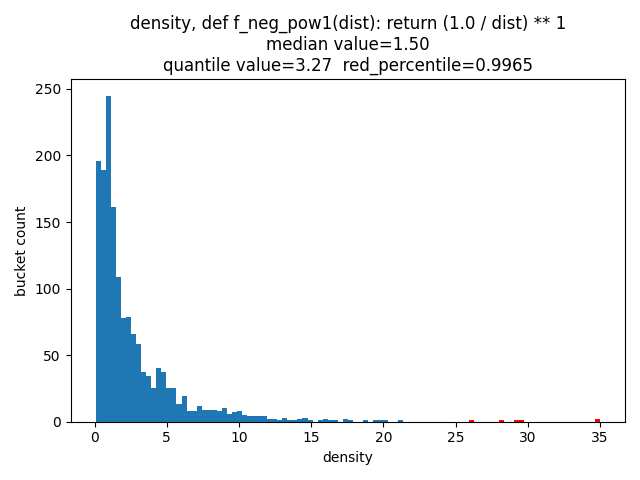
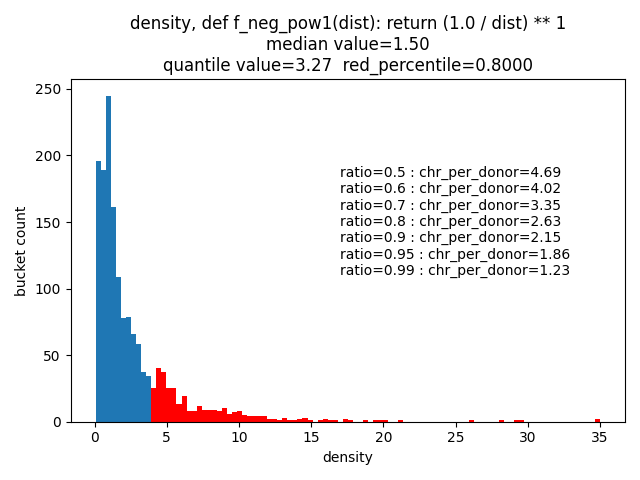
multiple map chromo chrs per chromo donor

diff --git a/DonorAnalyzer.py b/DonorAnalyzer.py
@@ -184,16 +184,23 @@ def hist_patients(f_id, ratio, dens_plot=True, cluster_plot=True, periphery_plot
 
         denss = list(map(lambda x: x[0], denss_info))
         top_ratio_infos_sorted_by_dens = sorted(denss_info, key=lambda p: p[0])
+        infoids_sorted_by_dens = list(map(lambda p: p[1], top_ratio_infos_sorted_by_dens))
         cnt = len(denss)
 
         for i in range(int(cnt * ratio), cnt):
             cur_id = top_ratio_infos_sorted_by_dens[i][1]
             infoids.append(cur_id)
 
+        ratios = [0.5, 0.6, 0.7, 0.8, 0.9, 0.95, 0.99]
+        ratios_map = chrs_per_donor_summary(infoids_sorted_by_dens, ratios)
+        text_ratios_map = ''
+        for k, v in ratios_map.items():
+            text_ratios_map += f'ratio={k} : ' + 'chr_per_donor=%0.2f\n' % v
+
         buckets_cnt = 100
         dens_path = f'distribution/densities/{f_id}.png'
         if dens_plot:
-            plot_distribution(denss, dens_path, code, 'density', 'density', ratio, buckets_cnt)
+            plot_distribution(denss, dens_path, code, 'density', 'density', ratio, buckets_cnt, text=text_ratios_map)
 
         cluster_path = f'distribution/clusters/{f_id}.png'
         if cluster_plot:
@@ -213,6 +220,18 @@ def hist_patients(f_id, ratio, dens_plot=True, cluster_plot=True, periphery_plot
     print(f'plots took {t2 - t1} sec')
     return infoids
 
+
+def chrs_per_donor_summary(infoids_sorted_by_dens, ratios):
+    cnt = len(infoids_sorted_by_dens)
+    ratios_map = {}
+    for _ratio in ratios:
+        _ratio_infoids = []
+        for i in range(int(cnt * _ratio), cnt):
+            cur_id = infoids_sorted_by_dens[i]
+            _ratio_infoids.append(cur_id)
+        chr_per_donor = relation_chromo_chrs_per_donor(_ratio_infoids)
+        ratios_map[_ratio] = chr_per_donor
+    return ratios_map
 
 def relation_chromo_chrs_per_donor(chromo_infoids):
     donor_chromo_chrs_cnt = {}
@@ -329,8 +348,9 @@ def all_hists(ratio):
     for i in range(1, 4):
         # for i in range(1, max_range_pow + 1):
         infoids = hist_patients(i, ratio=ratio, dens_plot=True, seek_plot=True, periphery_plot=False, cluster_plot=False)
-        avg = relation_chromo_chrs_per_donor(infoids)
-        print(f'chromo chr per 1 donor = {avg} with f_id = {i}')
+        # if infoids:
+        #     avg = relation_chromo_chrs_per_donor(infoids)
+        #     print(f'chromo chr per 1 donor = {avg} with f_id = {i}')
 
 
 def seek_test():
@@ -381,7 +401,7 @@ def measure_test():
 if __name__ == '__main__':
     # main()
 
-    all_hists(0.9965)  # 0.9965: -1,  0.975: -2
+    all_hists(ratio=0.8)  # 0.9965: -1,  0.975: -2
 
     # seek_test()
 

diff --git a/DenseUtils.py b/DenseUtils.py
@@ -90,12 +90,14 @@ def plot_seek_distibution(top_ratio_infos_sorted_by_dens, buckets_cnt, rep: Dono
         plt.bar(ids, data[j], color=colors[j], label=labels[j], align='center', bottom=bottom[j - 1])
     plt.legend()
     plt.title(title)
+    plt.xlabel('buckets')
+    plt.ylabel('count in bucket')
     create_path_if_not_exist(store_path)
     plt.savefig(store_path)
     plt.show()
 
 
-def plot_distribution(arr, store_path, function_code, label, xlabel, ratio, buckets_cnt, color='null'):
+def plot_distribution(arr, store_path, function_code, label, xlabel, ratio, buckets_cnt, text=None, color='null'):
     rcParams.update({'figure.autolayout': True})
     if color != 'null':
         cnts_in_bucket, bins, patches = plt.hist(arr, bins=buckets_cnt, color=color)
@@ -116,6 +118,8 @@ def plot_distribution(arr, store_path, function_code, label, xlabel, ratio, buck
     create_path_if_not_exist(store_path)
     plt.xlabel(xlabel)
     plt.ylabel('bucket count')
+    if text is not None:
+        plt.text(int(0.5 * max(arr)), int(0.5 * cnts_in_bucket[0]), text, fontsize=10)
     plt.savefig(store_path)
     plt.show()
 
